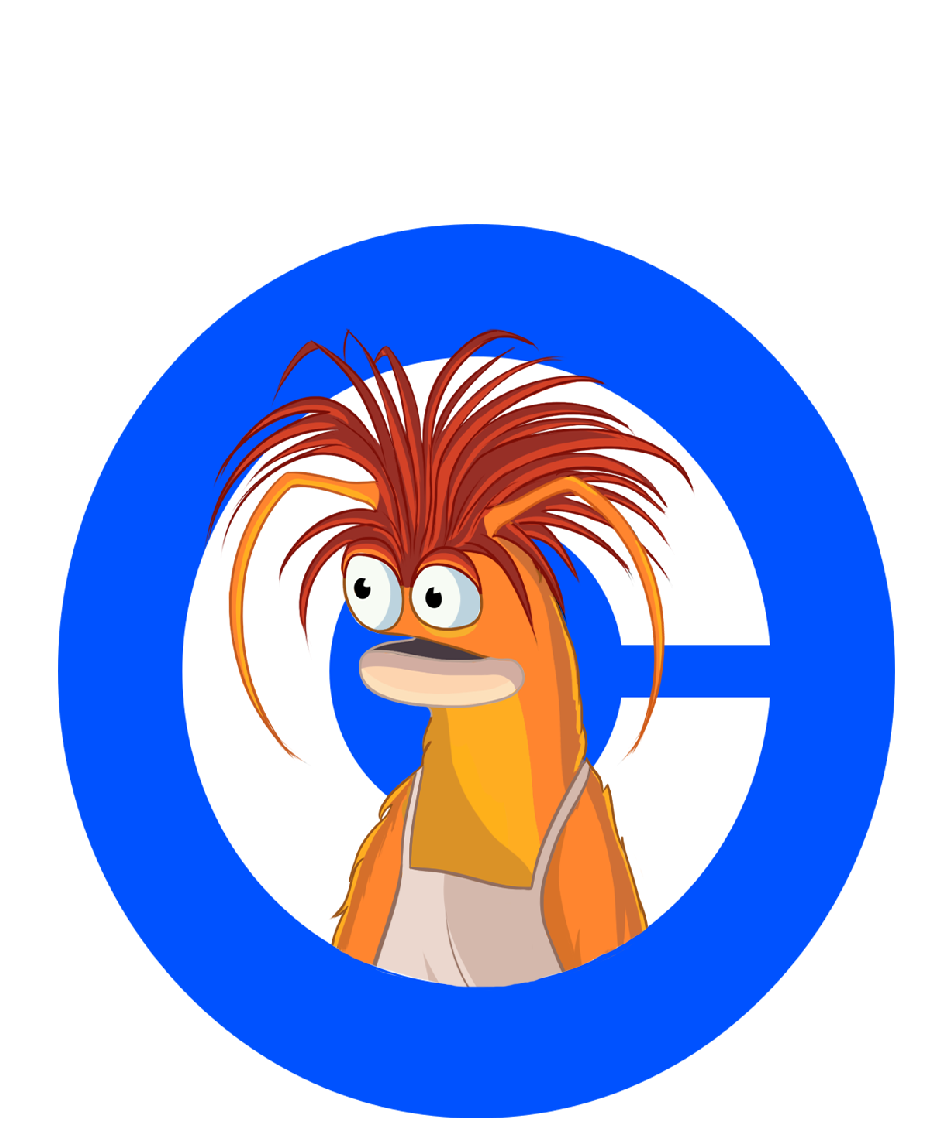
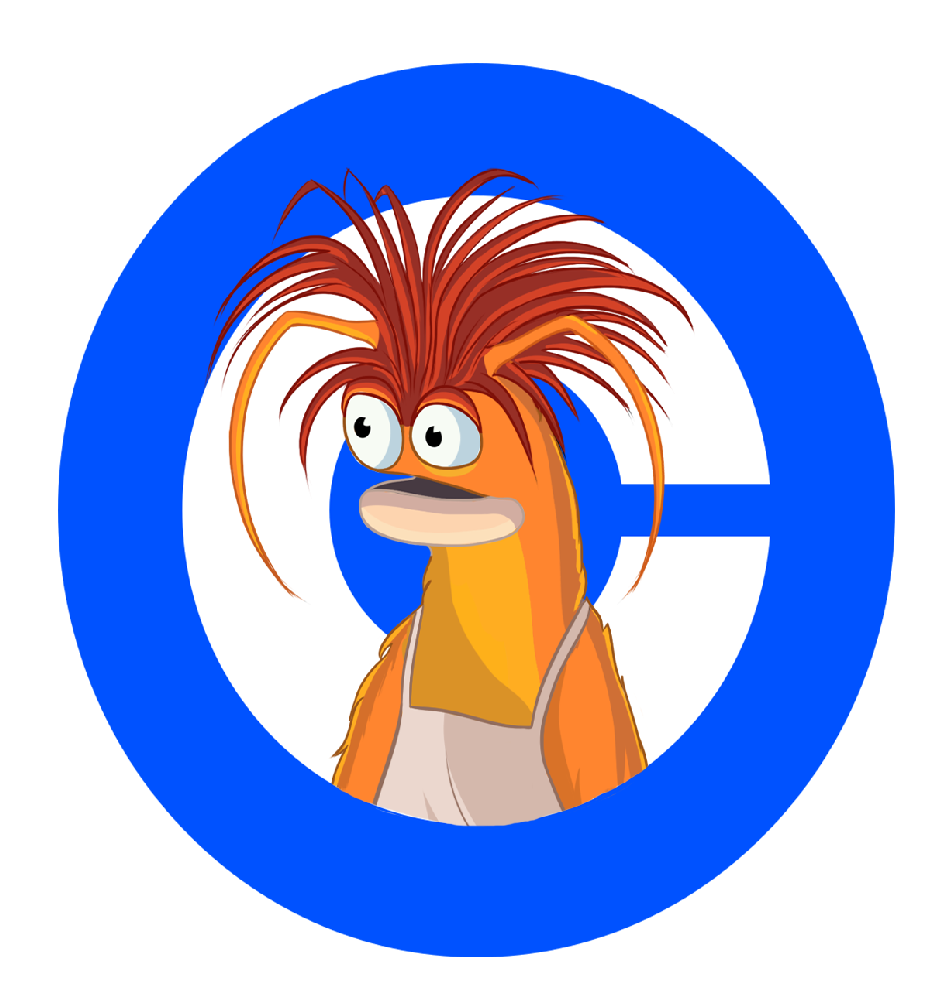
changes 10

diff --git a/styles.css b/styles.css
@@ -36,7 +36,7 @@
   }
   
   nav {
-    background-color: #b02f31;
+    background-color: #0070f3;
     display: flex;
     justify-content: center;
     align-items: center;
@@ -90,7 +90,7 @@
   }
   
   .focus-text-2 {
-    color: #b02f31;
+    color: #0070f3;
     text-shadow: -2px 2px 0 #000;
     -webkit-text-stroke-color: #343230;
     -webkit-text-stroke-width: 1px;
@@ -105,7 +105,7 @@
   .contract-address button {
     padding: 10px;
     font-size: 16px;
-    background-color: #b02f31;
+    background-color: #0070f3;
     color: white;
     border: none;
     cursor: pointer;
@@ -118,7 +118,7 @@
   
   .section h2 {
     font-size: 36px;
-    color: #b02f31;
+    color: #0070f3;
   }
   
   .roost-101,
@@ -180,7 +180,7 @@
   footer a {
     margin: 0 10px;
     text-decoration: none;
-    color: #b02f31;
+    color: #0070f3;
   }
   
   footer a:hover {
@@ -192,7 +192,7 @@
     overflow: hidden;
     white-space: nowrap;
     box-sizing: border-box;
-    background-color: #b02f31;
+    background-color: #0070f3;
     color: white;
     font-size: 24px;
     padding: 20px 0;
@@ -301,7 +301,7 @@
     padding: 15px 30px;
     font-size: 20px;
     font-family: "Milky Nice", Arial, sans-serif;
-    background-color: #b02f31;
+    background-color: #0070f3;
     color: white;
     border: 2px solid #343230;
     border-radius: 10px;
@@ -311,12 +311,12 @@
   }
   
   button:hover {
-    background-color: #b02f31;
+    background-color: #0070f3;
     transform: translateY(-5px);
   }
   
   button:active {
-    background-color: #b02f31;
+    background-color: #0070f3;
     transform: translateY(0);
   }
   .logo-text {
@@ -327,7 +327,7 @@
     justify-content: center;
     align-items: center;
     flex-direction: column;
-    border: 5px solid #b02f31;
+    border: 5px solid #0070f3;
     padding: 0rem 1rem;
     margin: 1.5rem;
     text-align: center;
@@ -340,6 +340,7 @@
   }
   .about-DIDDY p {
     font-size: 1.5rem;
+    word-break: break-word;
   }
   
   
@@ -377,7 +378,7 @@
   
   details {
     margin-bottom: 15px;
-    border: 2px solid #b02f31;
+    border: 2px solid #0070f3;
     border-radius: 10px;
     background: #fff;
     padding: 5px 15px;

diff --git a/index.html b/index.html
@@ -24,7 +24,7 @@
       <h1 class="focus-text-2">King Prawn</h1>
       <p class="image-container main-image">
         <img src="images/1.png" alt="Roost Mascot" class="animated-image img-flex" width="500"
-          style="padding-top: 40px" />
+          style="padding-top: 70px" />
       </p>
       <p class="bigger-font p-rl10 uppercase">
         "The TikTok Sensation Taking Over Your Feed!" <br> as seen on TikTok  <br />
@@ -33,7 +33,7 @@
         <a href=""><button>Buy King Prawn</button></a>
       </p>
       <p class="image-container">
-        <img src="images/2.png" alt="Roost Mascot" class="animated-image img-flex" width="500" />
+        <img src="images/7.png" alt="Roost Mascot" class="animated-image img-flex" width="500" />
       </p>
     </header>
     <div class="contract-address focus-text-1 bigger-font">
@@ -128,11 +128,11 @@
         </div>
       </div>
     </div>
-    <div class="d-flex">
+    <!-- <div class="d-flex">
       <p class="image-container">
         <img src="images/7.png" alt="Roost Mascot" class="animated-image img-flex" width="500" />
       </p>
-    </div>
+    </div> -->
     <div class="faq-section">
       <div class="how-to-buy-section">
         <h2 class="focus-text-1">How to Buy</h2>
